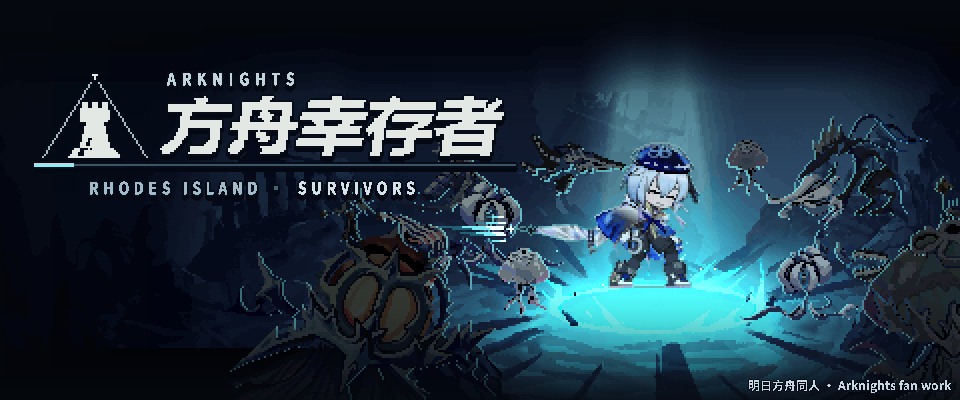
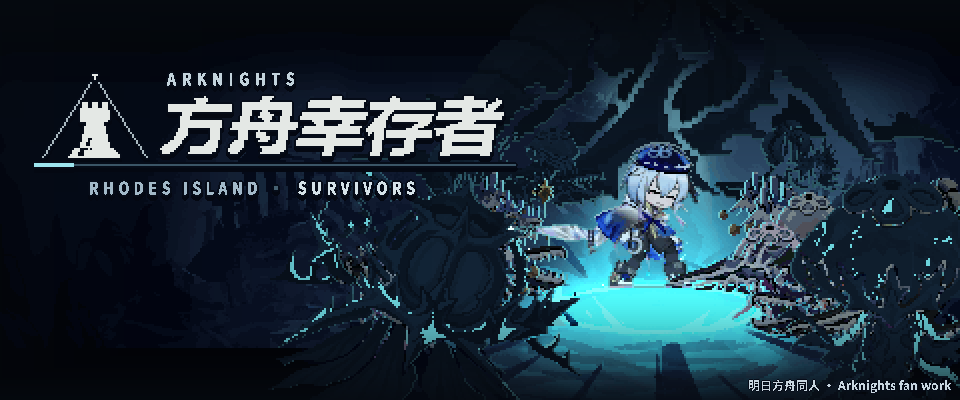
封面 N 加压迫感（用户 11-07）：怪潮加密收紧、后排剪影成墙、前景大怪拉回画内、背后巨型育母暗影

Changed region(s): [[0.25, 0.12, 1.0, 0.96], [0.5, 0.96, 0.5312, 0.99], [0.4062, 0.93, 0.4375, 0.96]]

diff --git a/art/promo/itch/cover_g/build_cover_n.py b/art/promo/itch/cover_g/build_cover_n.py
@@ -24,18 +24,14 @@ import build_cover_m as M  # noqa: E402
 SRC = B.ROOT / "art/archive/incoming_1028/enemy_redraw_1023/remaining/generated"
 MIZ = "t:1"
 # (名, 高〔水月高的倍数〕, dx, dy〔水月高为单位，相对光圈中心脚底〕, 亮度, 朝左?)
+# 11-07 用户「少了点压迫感」：怪潮更密更近（程序铺 CROWD 只、两侧叠成墙、只留正前方）、
+# 前景两角大怪拉回画面内、光柱后面一只巨大的育母暗影俯视水月
 LAYOUT = [
-    # 后景（远、暗、小）
-    ("mother", 0.70, -1.30, -0.45, 0.55), ("path", 0.70, 1.40, -0.48, 0.55),
-    ("floater", 0.42, -0.55, -0.62, 0.55), ("offspring", 0.38, 0.62, -0.62, 0.55),
-    ("nest", 0.42, -2.05, -0.30, 0.5), ("tracer", 0.45, 2.10, -0.32, 0.5),
-    # 中景一圈
-    ("slider", 0.58, -1.08, -0.14, 0.8), ("spitter", 0.62, 1.05, -0.16, 0.8),
-    ("skimmer", 0.66, -1.62, 0.02, 0.75), ("runner", 0.50, 1.70, 0.00, 0.8),
-    ("offspring", 0.46, -0.88, 0.20, 0.9), ("slider", 0.50, 0.98, 0.22, 0.9),
-    # 前景两角（只露半身、偏暗）
-    ("paranoia", 1.55, -2.00, 1.10, 0.5), ("izumik", 1.65, 2.02, 1.20, 0.45),
+    ("paranoia", 1.75, -1.55, 1.00, 0.45), ("izumik", 1.85, 1.60, 1.08, 0.42),
 ]
+LOOM = ("mother", 3.6, 0.0, -0.35, 0.30)       # 背景巨物：(名, 高, dx, dy, 亮度)
+CROWD_KINDS = ["slider", "spitter", "skimmer", "runner", "offspring", "floater", "nest", "tracer"]
+CROWD = 38
 CACHE = {}
 
 
@@ -90,6 +86,13 @@ def paste(g, spr, fx, fy, light, bright, hm, face_left):
     d = math.hypot(fx - light[0], (fy - sh / 2) - light[1]) / hm
     k = float(np.clip(1.1 - 0.28 * d, 0.35, 1.0)) * bright
     rgb = a[..., :3] * np.array([0.78, 0.90, 1.0]) * k
+    sil = bright < 0.66          # 后排 / 背景巨物：平涂深色剪影（只留一点明暗 + 青色眼光），做成怪墙
+    if sil:
+        lum = (a[..., :3] * [0.299, 0.587, 0.114]).sum(-1, keepdims=True) / 255
+        rgb = np.array([8, 16, 26], np.float32) + lum * np.array([16, 30, 42]) * (bright / 0.66)
+        r_, g_, b_ = a[..., 0], a[..., 1], a[..., 2]
+        eye = m & (g_ > 150) & (b_ > 170) & (r_ < 150)
+        rgb = np.where(eye[..., None], M.CYAN * 0.9, rgb)
     vx, vy = light[0] - fx, light[1] - (fy - sh / 2)
     nv = math.hypot(vx, vy) or 1
     sx, sy = int(round(vx / nv)), int(round(vy / nv))
@@ -97,7 +100,7 @@ def paste(g, spr, fx, fy, light, bright, hm, face_left):
     p = np.pad(mf, 1)
     nb = p[1 + sy:1 + sy + sh, 1 + sx:1 + sx + sw]
     rim = m & ~nb
-    rk = float(np.clip(0.95 - 0.22 * d, 0.25, 0.8))
+    rk = float(np.clip(0.95 - 0.22 * d, 0.25, 0.8)) * (0.45 if sil else 1.0)
     rgb[rim] = rgb[rim] * (1 - rk) + M.CYAN * rk
     ys0, xs0 = max(0, y0), max(0, x0)
     ys1, xs1 = min(gh, y0 + sh), min(gw, x0 + sw)
@@ -123,8 +126,25 @@ def build(kind):
     miz = Hh.sprite(MIZ)
     hm = miz.height
     light = (cx, cy - hm * 0.15)
-    items = sorted((cy + dy * hm, name, hr, cx + dx * hm, br) for name, hr, dx, dy, br in LAYOUT)
+    lay = list(LAYOUT)
+    rng = np.random.default_rng(23)
+    while len(lay) < len(LAYOUT) + CROWD:
+        ang = rng.uniform(0, 2 * math.pi)
+        if 0.30 * math.pi < ang < 0.70 * math.pi:        # 正前方留空
+            continue
+        rad = rng.uniform(0.85, 2.2)
+        dx, dy = rad * math.cos(ang), rad * 0.40 * math.sin(ang)
+        if abs(dx) < 0.62 and dy < 0.05:                  # 水月身后正中不叠
+            continue
+        depth = (dy + 0.9) / 1.3                          # 越靠后越小越暗
+        hr = float(np.clip(0.38 + 0.32 * depth, 0.3, 0.75)) * rng.uniform(0.85, 1.15)
+        br = float(np.clip(0.45 + 0.45 * depth, 0.4, 0.95))
+        lay.append((CROWD_KINDS[int(rng.integers(0, len(CROWD_KINDS)))], hr, dx, dy, br))
+    items = sorted((cy + dy * hm, name, hr, cx + dx * hm, br) for name, hr, dx, dy, br in lay)
     g = grid.copy()
+    # 背景巨物：压暗成剪影，只留一点轮廓光，最先画（在所有怪和水月后面）
+    ln, lh, ldx, ldy, lbr = LOOM
+    paste(g, to_cells(load_src(ln), int(lh * hm)), cx + ldx * hm, cy + ldy * hm, light, lbr, hm, False)
     for fy, name, hr, fx, br in items:
         if fy > cy:
             continue
